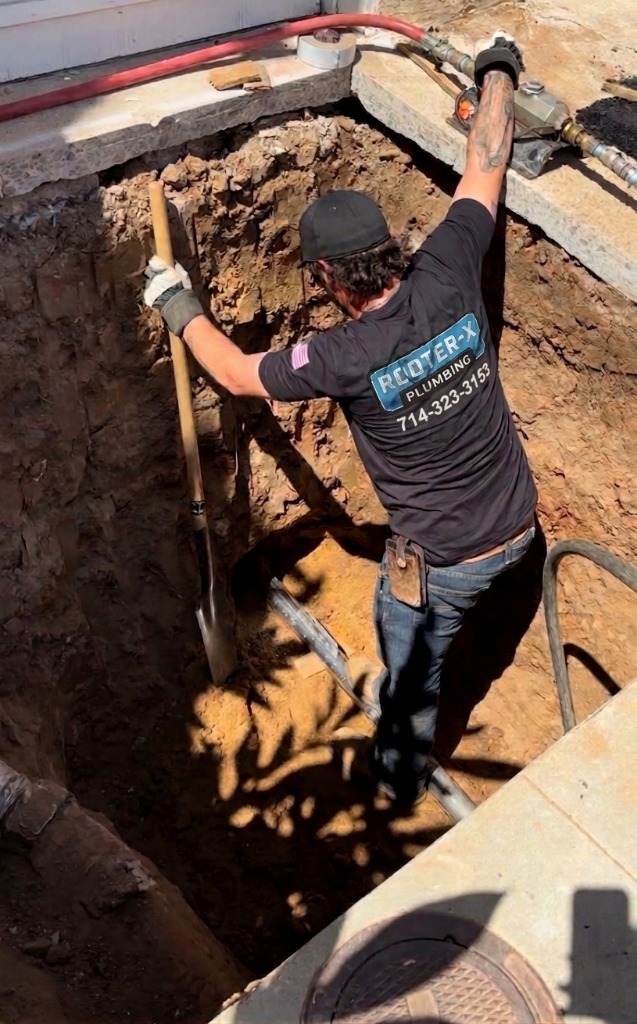
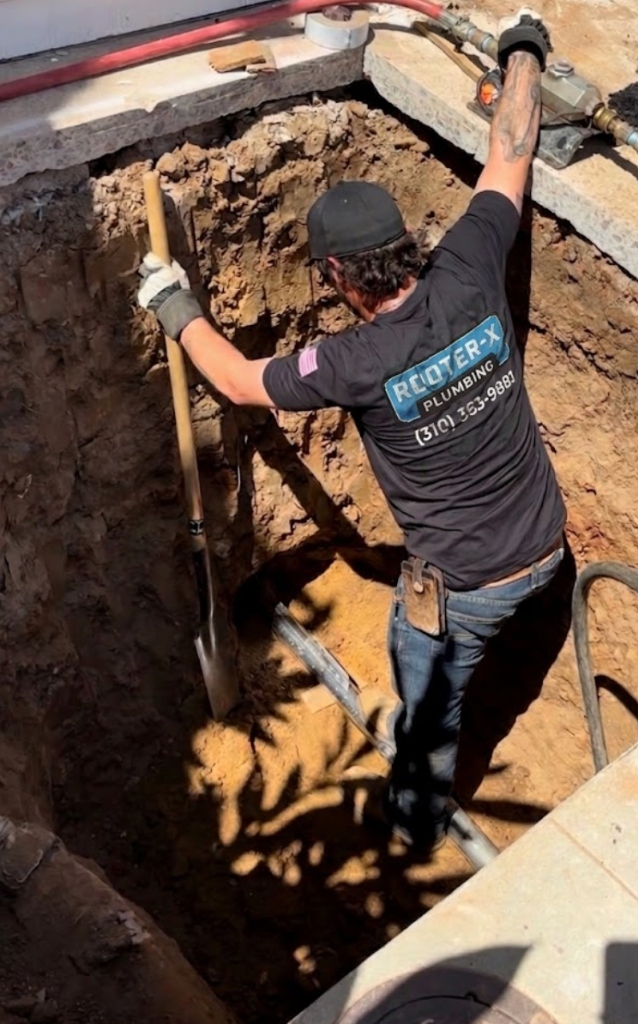
Update phone number, refresh service field photos, remove PHCC section and social links

diff --git a/src/data/services.ts b/src/data/services.ts
@@ -23,6 +23,7 @@ export interface ServiceData {
   faqs: ServiceFAQ[];
   image: string;
   galleryImages: string[];
+  galleryImageClasses?: string[];
 }
 
 export const SERVICES: ServiceData[] = [
@@ -108,11 +109,16 @@ export const SERVICES: ServiceData[] = [
       }
     ],
     ctaHeadline: "Schedule an HD camera inspection today",
-    image: "https://images.unsplash.com/photo-1581094794329-c8112a89af12?auto=format&fit=crop&w=800&q=80",
+    image: "/images/real-photos/camera-setup-lawn.jpg",
     galleryImages: [
-      "https://images.unsplash.com/photo-1581094794329-c8112a89af12?auto=format&fit=crop&w=800&q=80",
-      "https://images.unsplash.com/photo-1621905251189-08b45d6a269e?auto=format&fit=crop&w=800&q=80",
-      "https://images.unsplash.com/photo-1504307651254-35680f356dfd?auto=format&fit=crop&w=800&q=80"
+      "/images/real-photos/camera-setup-lawn.jpg",
+      "/images/real-photos/camera-setup-street.jpg",
+      "/images/real-photos/camera-tech-operation.jpg"
+    ],
+    galleryImageClasses: [
+      "object-cover object-center",
+      "object-cover object-[center_65%]",
+      "object-cover object-[center_60%]"
     ],
     faqs: [
       {
@@ -369,12 +375,16 @@ export const SERVICES: ServiceData[] = [
         description: "Extends time between drain maintenance calls compared to mechanical cabling."
       }
     ],
-    ctaHeadline: "Restore sewer lines with hydro jetting",
-    image: "/images/real-photos/epoxy-liner-prep.jpg",
+    image: "/images/real-photos/hydrojetting-truck-driveway-310.jpg",
     galleryImages: [
-      "/images/real-photos/epoxy-liner-prep.jpg",
-      "/images/real-photos/tech-root-removal.jpg",
-      "/images/real-photos/sewer-trench-excavation.jpg"
+      "/images/real-photos/hydrojetting-truck-driveway-310.jpg",
+      "/images/real-photos/hydrojetting-truck-street-310.jpg",
+      "/images/real-photos/hydrojetting-cleanout-operation-310.jpg"
+    ],
+    galleryImageClasses: [
+      "object-cover object-[center_60%]",
+      "object-cover object-[center_65%]",
+      "object-cover object-center"
     ],
     faqs: [
       {
@@ -415,7 +425,7 @@ export const SERVICES: ServiceData[] = [
       },
       {
         question: "How do I schedule hydro jetting service in Orange County?",
-        answer: "Call Rooter-X Plumbing at (714) 887-6918 for 24/7 immediate scheduling or emergency service."
+        answer: "Call Rooter-X Plumbing at (310) 363-9881 for 24/7 immediate scheduling or emergency service."
       }
     ]
   },
@@ -500,12 +510,16 @@ export const SERVICES: ServiceData[] = [
         description: "Avoids costly concrete demo, repaving, and landscape re-planting expenses."
       }
     ],
-    ctaHeadline: "Replace sewer pipes without trenching",
-    image: "https://images.unsplash.com/photo-1504307651254-35680f356dfd?auto=format&fit=crop&w=800&q=80",
+    image: "/images/real-photos/pipebursting-hdpe-layout-310.jpg",
     galleryImages: [
-      "https://images.unsplash.com/photo-1504307651254-35680f356dfd?auto=format&fit=crop&w=800&q=80",
-      "https://images.unsplash.com/photo-1581094794329-c8112a89af12?auto=format&fit=crop&w=800&q=80",
-      "https://images.unsplash.com/photo-1621905251189-08b45d6a269e?auto=format&fit=crop&w=800&q=80"
+      "/images/real-photos/pipebursting-hdpe-layout-310.jpg",
+      "/images/real-photos/pipebursting-fusion-machine-310.jpg",
+      "/images/real-photos/pipebursting-fused-seam-310.jpg"
+    ],
+    galleryImageClasses: [
+      "object-cover object-[center_65%]",
+      "object-cover object-center",
+      "object-cover object-center"
     ],
     faqs: [
       {
@@ -546,7 +560,7 @@ export const SERVICES: ServiceData[] = [
       },
       {
         question: "How do I get a quote for pipe bursting replacement?",
-        answer: "Contact Rooter-X Plumbing at (714) 887-6918 for a camera inspection and upfront trenchless replacement proposal."
+        answer: "Contact Rooter-X Plumbing at (310) 363-9881 for a camera inspection and upfront trenchless replacement proposal."
       }
     ]
   },
@@ -677,7 +691,7 @@ export const SERVICES: ServiceData[] = [
       },
       {
         question: "How do I schedule a spot repair evaluation?",
-        answer: "Call Rooter-X Plumbing at (714) 887-6918 for camera diagnostic pinpointing and flat-rate repair pricing."
+        answer: "Call Rooter-X Plumbing at (310) 363-9881 for camera diagnostic pinpointing and flat-rate repair pricing."
       }
     ]
   },
@@ -763,11 +777,16 @@ export const SERVICES: ServiceData[] = [
       }
     ],
     ctaHeadline: "Restore pipes with trenchless CIPP epoxy lining",
-    image: "https://images.unsplash.com/photo-1504307651254-35680f356dfd?auto=format&fit=crop&w=800&q=80",
+    image: "/images/real-photos/epoxy-wetout-rollout.jpg",
     galleryImages: [
-      "https://images.unsplash.com/photo-1504307651254-35680f356dfd?auto=format&fit=crop&w=800&q=80",
-      "https://images.unsplash.com/photo-1581094794329-c8112a89af12?auto=format&fit=crop&w=800&q=80",
-      "https://images.unsplash.com/photo-1621905251189-08b45d6a269e?auto=format&fit=crop&w=800&q=80"
+      "/images/real-photos/epoxy-wetout-rollout.jpg",
+      "/images/real-photos/epoxy-robotic-cutter.jpg",
+      "/images/real-photos/epoxy-inversion-pit.jpg"
+    ],
+    galleryImageClasses: [
+      "object-cover object-[center_30%]",
+      "object-cover object-center",
+      "object-cover object-[center_40%]"
     ],
     faqs: [
       {
@@ -808,7 +827,7 @@ export const SERVICES: ServiceData[] = [
       },
       {
         question: "How do I determine if my sewer line can be lined?",
-        answer: "Contact Rooter-X Plumbing at (714) 887-6918 for an HD camera inspection sweep to verify lining eligibility."
+        answer: "Contact Rooter-X Plumbing at (310) 363-9881 for an HD camera inspection sweep to verify lining eligibility."
       }
     ]
   },
@@ -894,11 +913,11 @@ export const SERVICES: ServiceData[] = [
       }
     ],
     ctaHeadline: "Schedule directional boring service",
-    image: "https://images.unsplash.com/photo-1581094794329-c8112a89af12?auto=format&fit=crop&w=800&q=80",
+    image: "/images/real-photos/boring-pipe-pull.jpg",
     galleryImages: [
-      "https://images.unsplash.com/photo-1581094794329-c8112a89af12?auto=format&fit=crop&w=800&q=80",
-      "https://images.unsplash.com/photo-1621905251189-08b45d6a269e?auto=format&fit=crop&w=800&q=80",
-      "https://images.unsplash.com/photo-1504307651254-35680f356dfd?auto=format&fit=crop&w=800&q=80"
+      "/images/real-photos/boring-pipe-pull.jpg",
+      "/images/real-photos/boring-entry-pit.jpg",
+      "/images/real-photos/boring-pipe-tie-in.jpg"
     ],
     faqs: [
       {
@@ -939,7 +958,7 @@ export const SERVICES: ServiceData[] = [
       },
       {
         question: "How do I request a site evaluation for boring?",
-        answer: "Call Rooter-X Plumbing at (714) 887-6918 to speak with our directional boring specialists."
+        answer: "Call Rooter-X Plumbing at (310) 363-9881 to speak with our directional boring specialists."
       }
     ]
   },
@@ -1025,11 +1044,16 @@ export const SERVICES: ServiceData[] = [
       }
     ],
     ctaHeadline: "Upgrade home water pipes with a professional repipe",
-    image: "https://images.unsplash.com/photo-1621905251189-08b45d6a269e?auto=format&fit=crop&w=800&q=80",
+    image: "/images/real-photos/repipe-pex-pull.png",
     galleryImages: [
-      "https://images.unsplash.com/photo-1621905251189-08b45d6a269e?auto=format&fit=crop&w=800&q=80",
-      "https://images.unsplash.com/photo-1581094794329-c8112a89af12?auto=format&fit=crop&w=800&q=80",
-      "https://images.unsplash.com/photo-1504307651254-35680f356dfd?auto=format&fit=crop&w=800&q=80"
+      "/images/real-photos/repipe-pex-pull.png",
+      "/images/real-photos/repipe-containment-living.png",
+      "/images/real-photos/repipe-containment-garage.png"
+    ],
+    galleryImageClasses: [
+      "object-cover object-[center_75%]",
+      "object-cover object-[center_80%]",
+      "object-cover object-[center_75%]"
     ],
     faqs: [
       {
@@ -1070,7 +1094,7 @@ export const SERVICES: ServiceData[] = [
       },
       {
         question: "How do I request an in-home repipe estimate?",
-        answer: "Call Rooter-X Plumbing at (714) 887-6918 for an expert on-site evaluation and detailed proposal."
+        answer: "Call Rooter-X Plumbing at (310) 363-9881 for an expert on-site evaluation and detailed proposal."
       }
     ]
   },
@@ -1201,7 +1225,7 @@ export const SERVICES: ServiceData[] = [
       },
       {
         question: "How do I schedule water heater replacement?",
-        answer: "Call Rooter-X Plumbing at (714) 887-6918 for emergency replacement or upfront installation quotes."
+        answer: "Call Rooter-X Plumbing at (310) 363-9881 for emergency replacement or upfront installation quotes."
       }
     ]
   },
@@ -1332,7 +1356,7 @@ export const SERVICES: ServiceData[] = [
       },
       {
         question: "How do I get an estimate for tankless installation?",
-        answer: "Call Rooter-X Plumbing at (714) 887-6918 for an expert on-site sizing evaluation and upfront quote."
+        answer: "Call Rooter-X Plumbing at (310) 363-9881 for an expert on-site sizing evaluation and upfront quote."
       }
     ]
   },
@@ -1463,7 +1487,7 @@ export const SERVICES: ServiceData[] = [
       },
       {
         question: "How do I book emergency leak detection in Orange County?",
-        answer: "Call Rooter-X Plumbing 24/7 at (714) 887-6918 for immediate technician dispatch."
+        answer: "Call Rooter-X Plumbing 24/7 at (310) 363-9881 for immediate technician dispatch."
       }
     ]
   },
@@ -1548,12 +1572,16 @@ export const SERVICES: ServiceData[] = [
         description: "Stands behind all installed groundworks, rough-in framing, and trim fixtures in writing."
       }
     ],
-    ctaHeadline: "Request a proposal for your new build",
-    image: "https://images.unsplash.com/photo-1504307651254-35680f356dfd?auto=format&fit=crop&w=800&q=80",
+    image: "/images/real-photos/newconstruction-framing-joists-310.jpg",
     galleryImages: [
-      "https://images.unsplash.com/photo-1504307651254-35680f356dfd?auto=format&fit=crop&w=800&q=80",
-      "https://images.unsplash.com/photo-1581094794329-c8112a89af12?auto=format&fit=crop&w=800&q=80",
-      "https://images.unsplash.com/photo-1621905251189-08b45d6a269e?auto=format&fit=crop&w=800&q=80"
+      "/images/real-photos/newconstruction-framing-joists-310.jpg",
+      "/images/real-photos/newconstruction-foundation-pipe-sleeves-310.jpg",
+      "/images/real-photos/newconstruction-tech-joist-trench-310.jpg"
+    ],
+    galleryImageClasses: [
+      "object-cover object-[center_60%]",
+      "object-cover object-[center_65%]",
+      "object-cover object-[center_30%]"
     ],
     faqs: [
       {
@@ -1594,7 +1622,7 @@ export const SERVICES: ServiceData[] = [
       },
       {
         question: "How do general contractors submit plans for bidding?",
-        answer: "Email your construction PDF plans directly to Rooterxplumbing@gmail.com or call (714) 887-6918."
+        answer: "Email your construction PDF plans directly to Rooterxplumbing@gmail.com or call (310) 363-9881."
       }
     ]
   }

diff --git a/src/data/homepage.ts b/src/data/homepage.ts
@@ -3,6 +3,7 @@ export interface SymptomCard {
   description: string;
   serviceSlug: string;
   image: string;
+  imageClass?: string;
 }
 
 export interface WhyChooseBlock {
@@ -20,37 +21,38 @@ export const SYMPTOMS: SymptomCard[] = [
     title: "Slow drains",
     description: "Water pooling in shower basins or taking minutes to drain from kitchen sinks indicates accumulating grease or branch line blockages. Cable clearing restores full gravity flow.",
     serviceSlug: "drain-cleaning",
-    image: "https://images.unsplash.com/photo-1584622650111-993a426fbf0a?auto=format&fit=crop&w=600&q=80"
+    image: "/images/real-photos/sign-slow-drains.jpg"
   },
   {
     title: "Low water pressure",
     description: "Sudden or gradual drops in water pressure across faucets stem from internal mineral rust scale in vintage galvanized pipes or failing pressure regulators. Repiping solves flow restrictions.",
     serviceSlug: "repipe",
-    image: "https://images.unsplash.com/photo-1504307651254-35680f356dfd?auto=format&fit=crop&w=600&q=80"
+    image: "/images/real-photos/sign-water-pressure.jpg",
+    imageClass: "object-cover object-[center_90%]"
   },
   {
     title: "Water stains",
     description: "Discolored damp patches on drywall, ceilings, or baseboards signal active supply line pinholes or waste stack leaks. Non-invasive acoustic location pinpoints the leak origin.",
     serviceSlug: "leak-detection",
-    image: "https://images.unsplash.com/photo-1581094794329-c8112a89af12?auto=format&fit=crop&w=600&q=80"
+    image: "/images/real-photos/sign-water-stains.jpg"
   },
   {
     title: "Rising water bills",
     description: "Unexplained surges in monthly utility water bills point to hidden subterranean supply line leaks running continuously beneath concrete foundation slabs.",
     serviceSlug: "leak-detection",
-    image: "https://images.unsplash.com/photo-1621905251189-08b45d6a269e?auto=format&fit=crop&w=600&q=80"
+    image: "/images/real-photos/sign-bill-spikes.jpg"
   },
   {
     title: "Sewer odors",
     description: "Foul sewer gas smells venting into bathrooms or yards signal cracked waste pipes, dry traps, or offset main sewer line joints. Camera inspection locates structural breaches.",
     serviceSlug: "camera-inspection",
-    image: "https://images.unsplash.com/photo-1504307651254-35680f356dfd?auto=format&fit=crop&w=600&q=80"
+    image: "/images/real-photos/sign-foul-odors.jpg"
   },
   {
     title: "Gurgling drains",
     description: "Bubbling toilet water or glug-glug noises from sink drains occur when trapped air forces past main sewer line root blockages. High-pressure hydro jetting clears mainlines completely.",
     serviceSlug: "hydro-jetting",
-    image: "https://images.unsplash.com/photo-1584622650111-993a426fbf0a?auto=format&fit=crop&w=600&q=80"
+    image: "/images/real-photos/sign-gurgling-drains.jpg"
   }
 ];
 
@@ -116,6 +118,6 @@ export const HOMEPAGE_FAQS: HomepageFAQ[] = [
   },
   {
     question: "How do I book a service appointment or camera inspection?",
-    answer: "You can book directly online using our contact form, or call us 24/7 at (714) 887-6918 for immediate scheduling."
+    answer: "You can book directly online using our contact form, or call us 24/7 at (310) 363-9881 for immediate scheduling."
   }
 ];

diff --git a/src/data/cities.ts b/src/data/cities.ts
@@ -382,7 +382,7 @@ export const CITIES: CityData[] = [
       },
       {
         question: "Is 24/7 emergency plumbing service available in Buena Park?",
-        answer: "Yes, Rooter-X Plumbing is available 24/7/365 at (714) 887-6918."
+        answer: "Yes, Rooter-X Plumbing is available 24/7/365 at (310) 363-9881."
       }
     ],
     nearbyCitySlugs: ["fullerton", "la-habra", "anaheim", "cypress"]
@@ -530,7 +530,7 @@ export const CITIES: CityData[] = [
       },
       {
         question: "Is 24/7 emergency plumbing service available in Brea?",
-        answer: "Yes, Rooter-X is available 24/7/365 at (714) 887-6918."
+        answer: "Yes, Rooter-X is available 24/7/365 at (310) 363-9881."
       }
     ],
     nearbyCitySlugs: ["la-habra", "fullerton", "yorba-linda", "placentia"]
@@ -604,7 +604,7 @@ export const CITIES: CityData[] = [
       },
       {
         question: "Is emergency 24/7 plumbing service available in Cypress?",
-        answer: "Yes, Rooter-X is available 24/7/365 at (714) 887-6918."
+        answer: "Yes, Rooter-X is available 24/7/365 at (310) 363-9881."
       }
     ],
     nearbyCitySlugs: ["buena-park", "la-palma", "seal-beach", "los-alamitos"]
@@ -641,7 +641,7 @@ export const CITIES: CityData[] = [
       },
       {
         question: "Is emergency plumbing available 24/7 in Fullerton?",
-        answer: "Yes, Rooter-X Plumbing is available 24/7/365 at (714) 887-6918."
+        answer: "Yes, Rooter-X Plumbing is available 24/7/365 at (310) 363-9881."
       }
     ],
     nearbyCitySlugs: ["brea", "la-habra", "anaheim", "placentia"]
@@ -715,7 +715,7 @@ export const CITIES: CityData[] = [
       },
       {
         question: "Is 24/7 emergency plumbing service available in La Palma?",
-        answer: "Yes, Rooter-X Plumbing is available 24/7/365 at (714) 887-6918."
+        answer: "Yes, Rooter-X Plumbing is available 24/7/365 at (310) 363-9881."
       }
     ],
     nearbyCitySlugs: ["cypress", "buena-park", "cerritos", "anaheim"]
@@ -752,7 +752,7 @@ export const CITIES: CityData[] = [
       },
       {
         question: "Is emergency plumbing available 24/7 in Orange?",
-        answer: "Yes, Rooter-X Plumbing is available 24/7/365 at (714) 887-6918."
+        answer: "Yes, Rooter-X Plumbing is available 24/7/365 at (310) 363-9881."
       }
     ],
     nearbyCitySlugs: ["anaheim", "tustin", "garden-grove", "anaheim-hills"]
@@ -789,7 +789,7 @@ export const CITIES: CityData[] = [
       },
       {
         question: "Is 24/7 emergency plumbing service available in Santa Ana?",
-        answer: "Yes, Rooter-X Plumbing is available 24/7/365 at (714) 887-6918."
+        answer: "Yes, Rooter-X Plumbing is available 24/7/365 at (310) 363-9881."
       }
     ],
     nearbyCitySlugs: ["tustin", "orange", "garden-grove", "costa-mesa"]
@@ -863,7 +863,7 @@ export const CITIES: CityData[] = [
       },
       {
         question: "Is emergency 24/7 plumbing service available in Westminster?",
-        answer: "Yes, Rooter-X Plumbing is available 24/7/365 at (714) 887-6918."
+        answer: "Yes, Rooter-X Plumbing is available 24/7/365 at (310) 363-9881."
       }
     ],
     nearbyCitySlugs: ["garden-grove", "fountain-valley", "huntington-beach", "seal-beach"]

diff --git a/src/config/business.ts b/src/config/business.ts
@@ -35,8 +35,8 @@ export interface BusinessConfig {
 export const BUSINESS: BusinessConfig = {
   name: "Rooter-X Plumbing",
   tagline: "Residential · Commercial",
-  phoneDisplay: "(714) 887-6918",
-  phoneHref: "tel:+17148876918",
+  phoneDisplay: "(310) 363-9881",
+  phoneHref: "tel:+13103639881",
   email: "Rooterxplumbing@gmail.com",
   license: "CSLB Lic. #1008868",
   serviceArea: "Orange County, CA",
